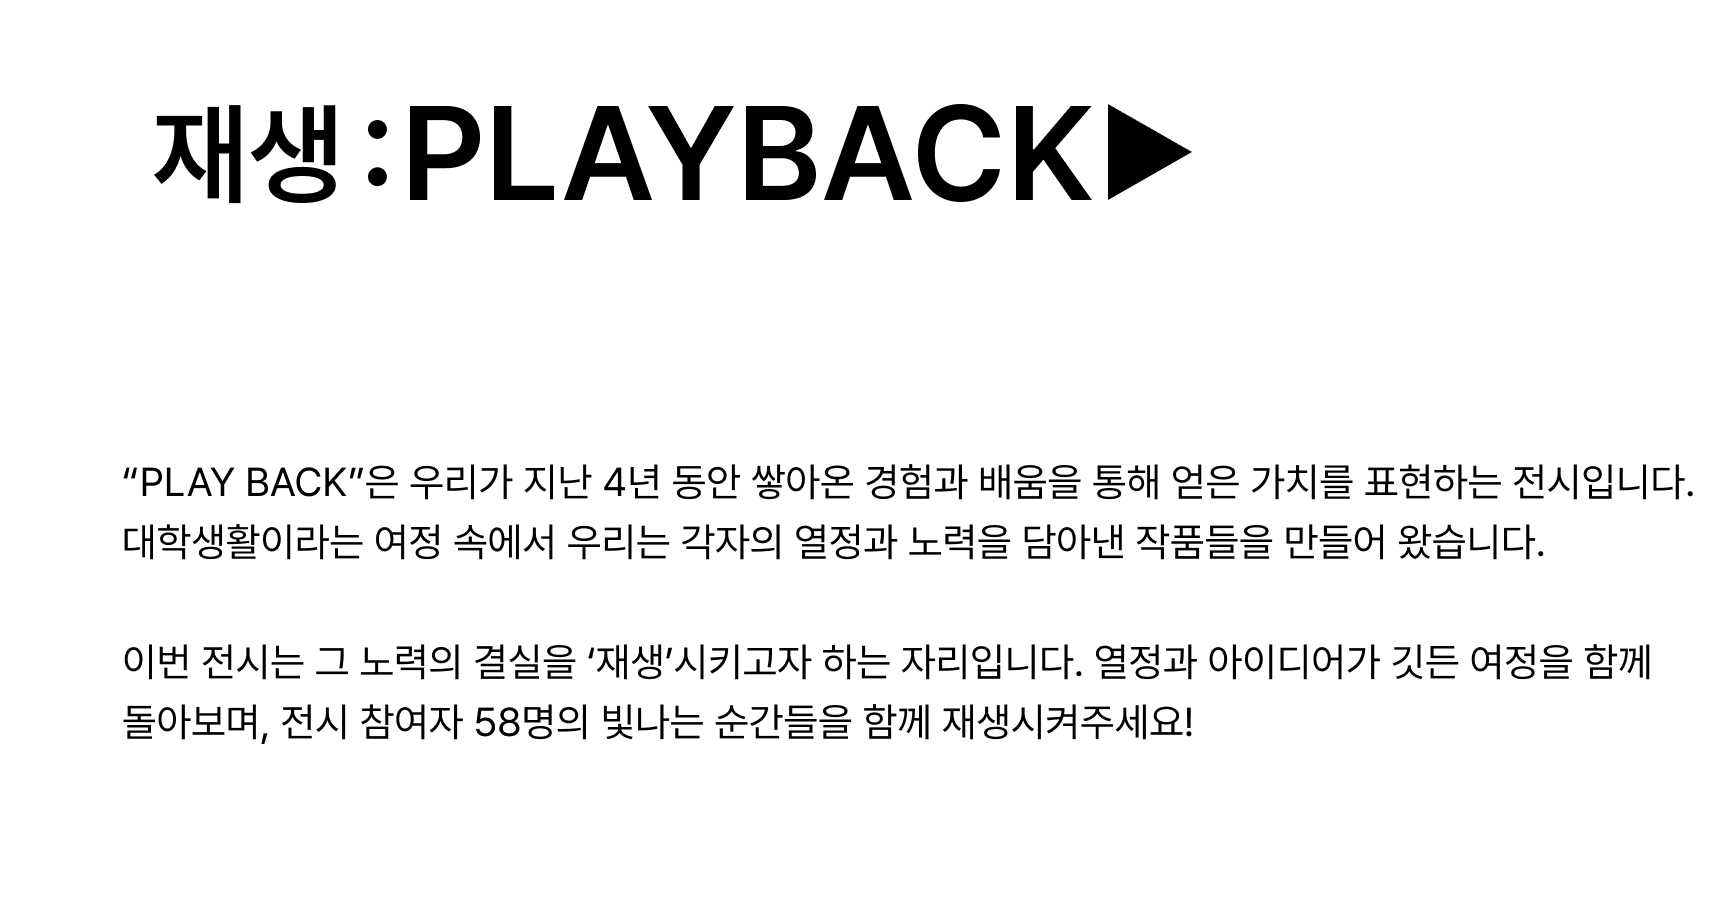
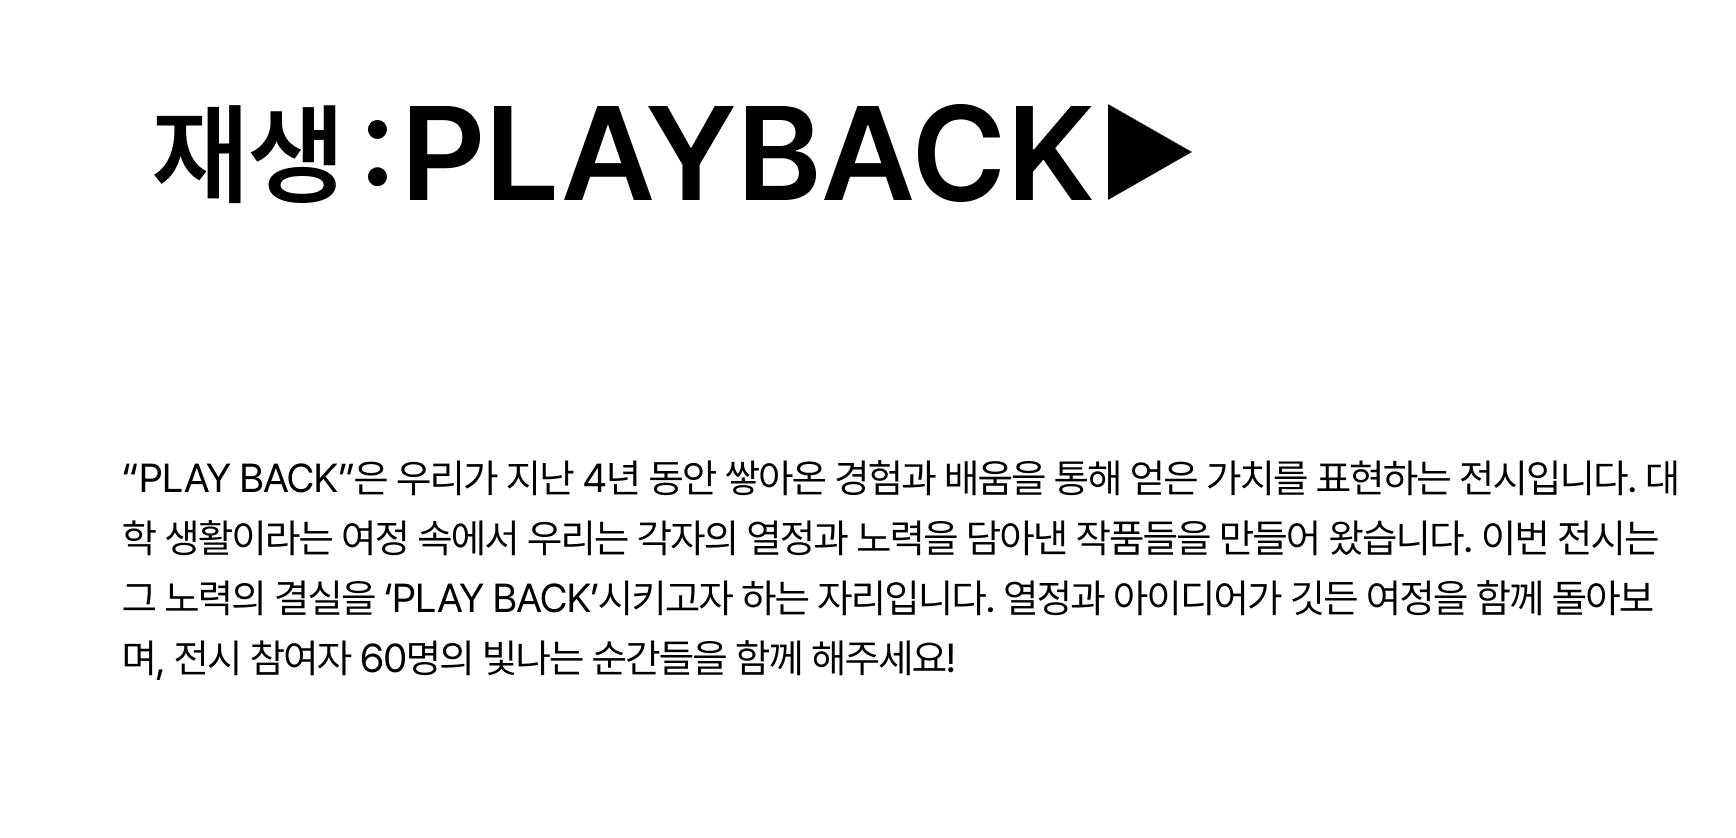
F1014

Changed region(s): [[0.0622, 0.4964, 0.9954, 0.8377], [0.0933, 0.0931, 0.6843, 0.2482]]

diff --git a/styles.css b/styles.css
@@ -4,7 +4,7 @@ body {
     font-family: 'Pretendard', sans-serif;
     background-image: url('./imgs/bg04.jpg');
     background-size: 100% auto;
-
+    letter-spacing: -2px;
     background-attachment: fixed;
     background-position: top;
     background-repeat: no-repeat;
@@ -13,6 +13,7 @@ body {
     height: 100vh;
     user-select: none;
     background-color: black;
+    word-spacing: 3px;
 }
 
 .container {
@@ -90,7 +91,7 @@ body {
 }
 #onlineButton {
     width: 15vmax; 
-    height: 5vmax; 
+    height: 4vmax; 
     display: flex;
     justify-content: space-evenly; 
     align-items: center; 
@@ -147,6 +148,7 @@ body {
 
  /* 메인 오른쪽 텍스트------------------------------------ */
 .right-text {
+    letter-spacing: -0.5px;
     margin-top: 5vmax;
     display: flex;
     justify-content: center; /* 가로 가운데 정렬 */
@@ -172,32 +174,23 @@ body {
 }
 
 #textTitle03 {
-    margin-top: -2vmax;
+    margin-top: -3vmax;
     font-size: 1.5vmax;
     font-weight: 500;
 }
+#onlineButton_m{display: none;}
 
 
 
 #panel2_img01 {
-    width: 80vmax;
-    height: 40vmax;
+    width: 75vmax;
+    height: 30vmax;
     position: relative;
     left: -5vmax;
     top: 12vmax;
     background-repeat: no-repeat;
     background-size: contain;
     background-image: url(./imgs/panel2_img00.png);
-}
-#panel2_img02 {
-    width: 120vmax;
-    height: 30vmax;
-    position:relative;
-    left: -26vmax;
-    top: 24vmax;
-    background-repeat: no-repeat;
-    background-size: contain;
-    background-image: url(./imgs/panel2_img02.png);
 }
 
 #credit_img01 {
@@ -208,10 +201,11 @@ body {
     top: 12vmax;
     background-repeat: no-repeat;
     background-size: contain;
-    background-image: url(./imgs/credit_img01.png);
+    background-image: url(./imgs/panel3_img01.png);
 }
 
 .panel4 {
+        min-height: 100%;
         scroll-snap-align: start;
         width: 100%;
         height: 100vh; /* 화면 크기 맞춤 */
@@ -281,13 +275,16 @@ body {
 
 #bottomText {
     padding-top: 1vmax; 
+    padding-bottom: 2vmax;
     margin-bottom: auto; 
+    align-items: center;
     text-align: center;
+    justify-content: center;
     width: 100%;
-    height: 5vmax;
+    height:2vmax;
     background-color: #000000;
     position: absolute;
-    bottom: 0vmax;
+    bottom: 0px;
     font-size: 1vmax;
     color: rgb(255, 255, 255);
 }
@@ -346,7 +343,7 @@ body {
     }
     .mainTitle_m p {
         width: 100vw;
-        font-size: 6.5vmin; /* 텍스트 크기 설정 */
+        font-size: 7.5vmin; /* 텍스트 크기 설정 */
         font-weight: 550;
         line-height: 140%;
         color: rgb(255, 255, 255);
@@ -406,6 +403,7 @@ body {
     #onlineButton_m:active{background-color: #ffffff;color: #000000;}
 
     .right-text {
+        letter-spacing: -1px;
         margin-top: -4vmax;
         width: 100vw;
         font-size: 1vmax;
@@ -482,7 +480,7 @@ body {
         position:relative;
         bottom: 4vmin;
         left: 0vmin;
-        top: 40vmin;
+        top: 20vmin;
         background-repeat: no-repeat;
         background-size: contain;
         background-image: url(./imgs/panel4_img01_m.png);
@@ -503,21 +501,21 @@ body {
         text-align: left;
         align-items: center;
         justify-content: center;
-        border:0.1vmax solid rgb(255, 255, 255);
+        border:0.1vmax solid rgba(255, 255, 255, 0);
     }
     .link-divAll {
-        margin-top: 20vmin;
+        margin-top: 22vmin;
         margin-left:4vmin ;
         display: block;
         width: 20vmin;
         font-weight: 600;
         cursor: pointer;
-        background-color: #ffffff;
+        background-color: #ffffff00;
         color: rgb(0, 0, 0);
         text-align: left;
         align-items: center;
         justify-content: left;
-        border:0.1vmax solid rgb(255, 255, 255);
+        border:0.1vmax solid rgba(255, 255, 255, 0);
     }
     
     .link-div p {

diff --git a/index.html b/index.html
@@ -106,11 +106,12 @@
                 </div>
 
             </div>
-            <div id="bottomText">
-                2O24 국립한경대학교 디자인학과 제 28회 졸업전시회 재생:PLAYBACK ▶ <br>
-                국립한경대학교 디자인학과 경기도 안성시 중앙로 327 한경대학교 3공학관 6,7층 copyright 2024. HKNUDESIGN. All right reserved
-            </div>
+            <footer id="bottomText">
+                2O24 한경국립대학교 시각미디어디자인전공 제28회 졸업전시회 재생:PLAYBACK &#9654; <br>
+                한경국립대학교 시각미디어디자인전공 경기도 안성시 중앙로 327 한경대학교 3공학관 6,7층 copyright 2024. HKNUDESIGN. All right reserved
+            </footer>
         </section>
+
     </div>
 
 </body>
